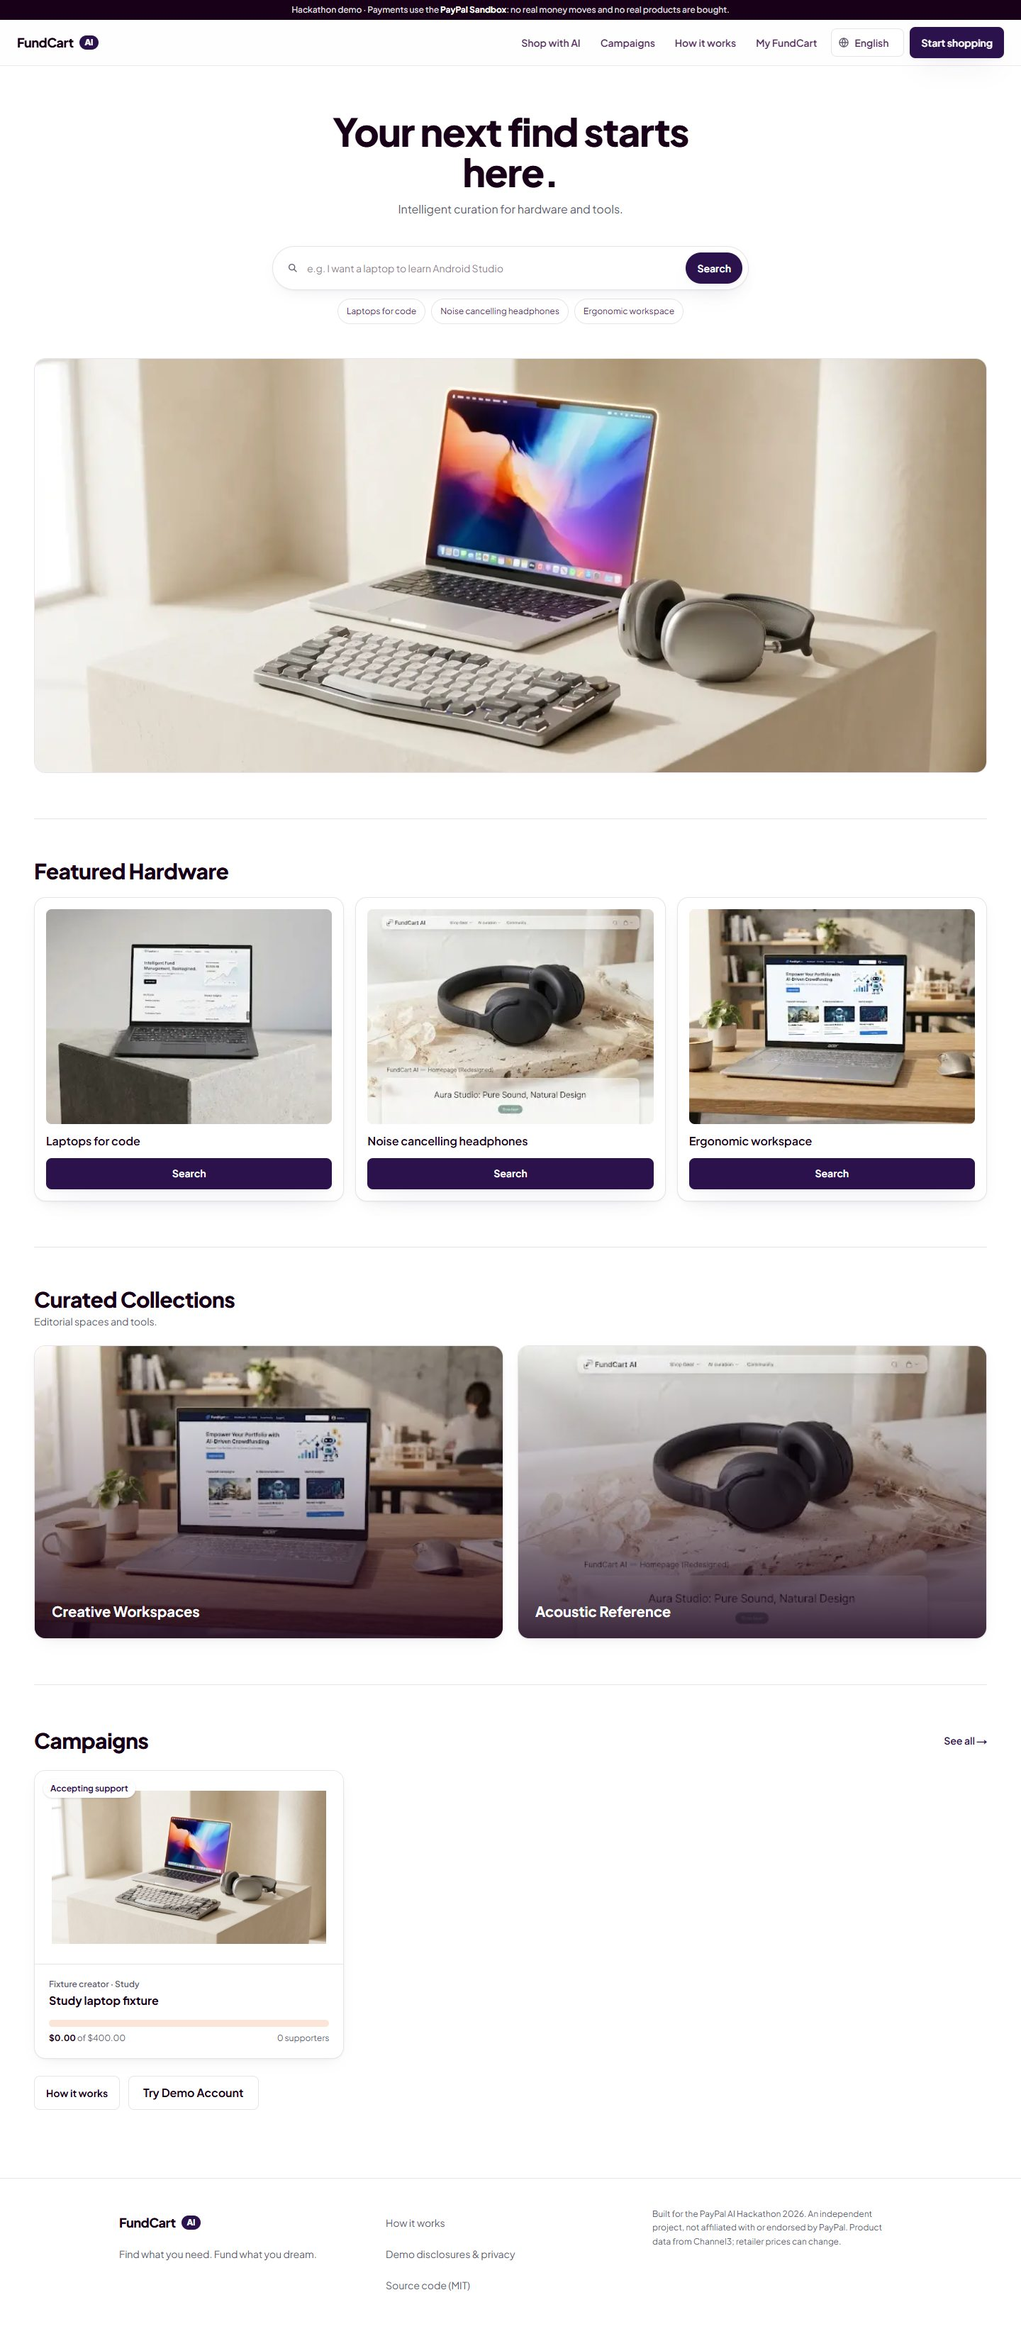
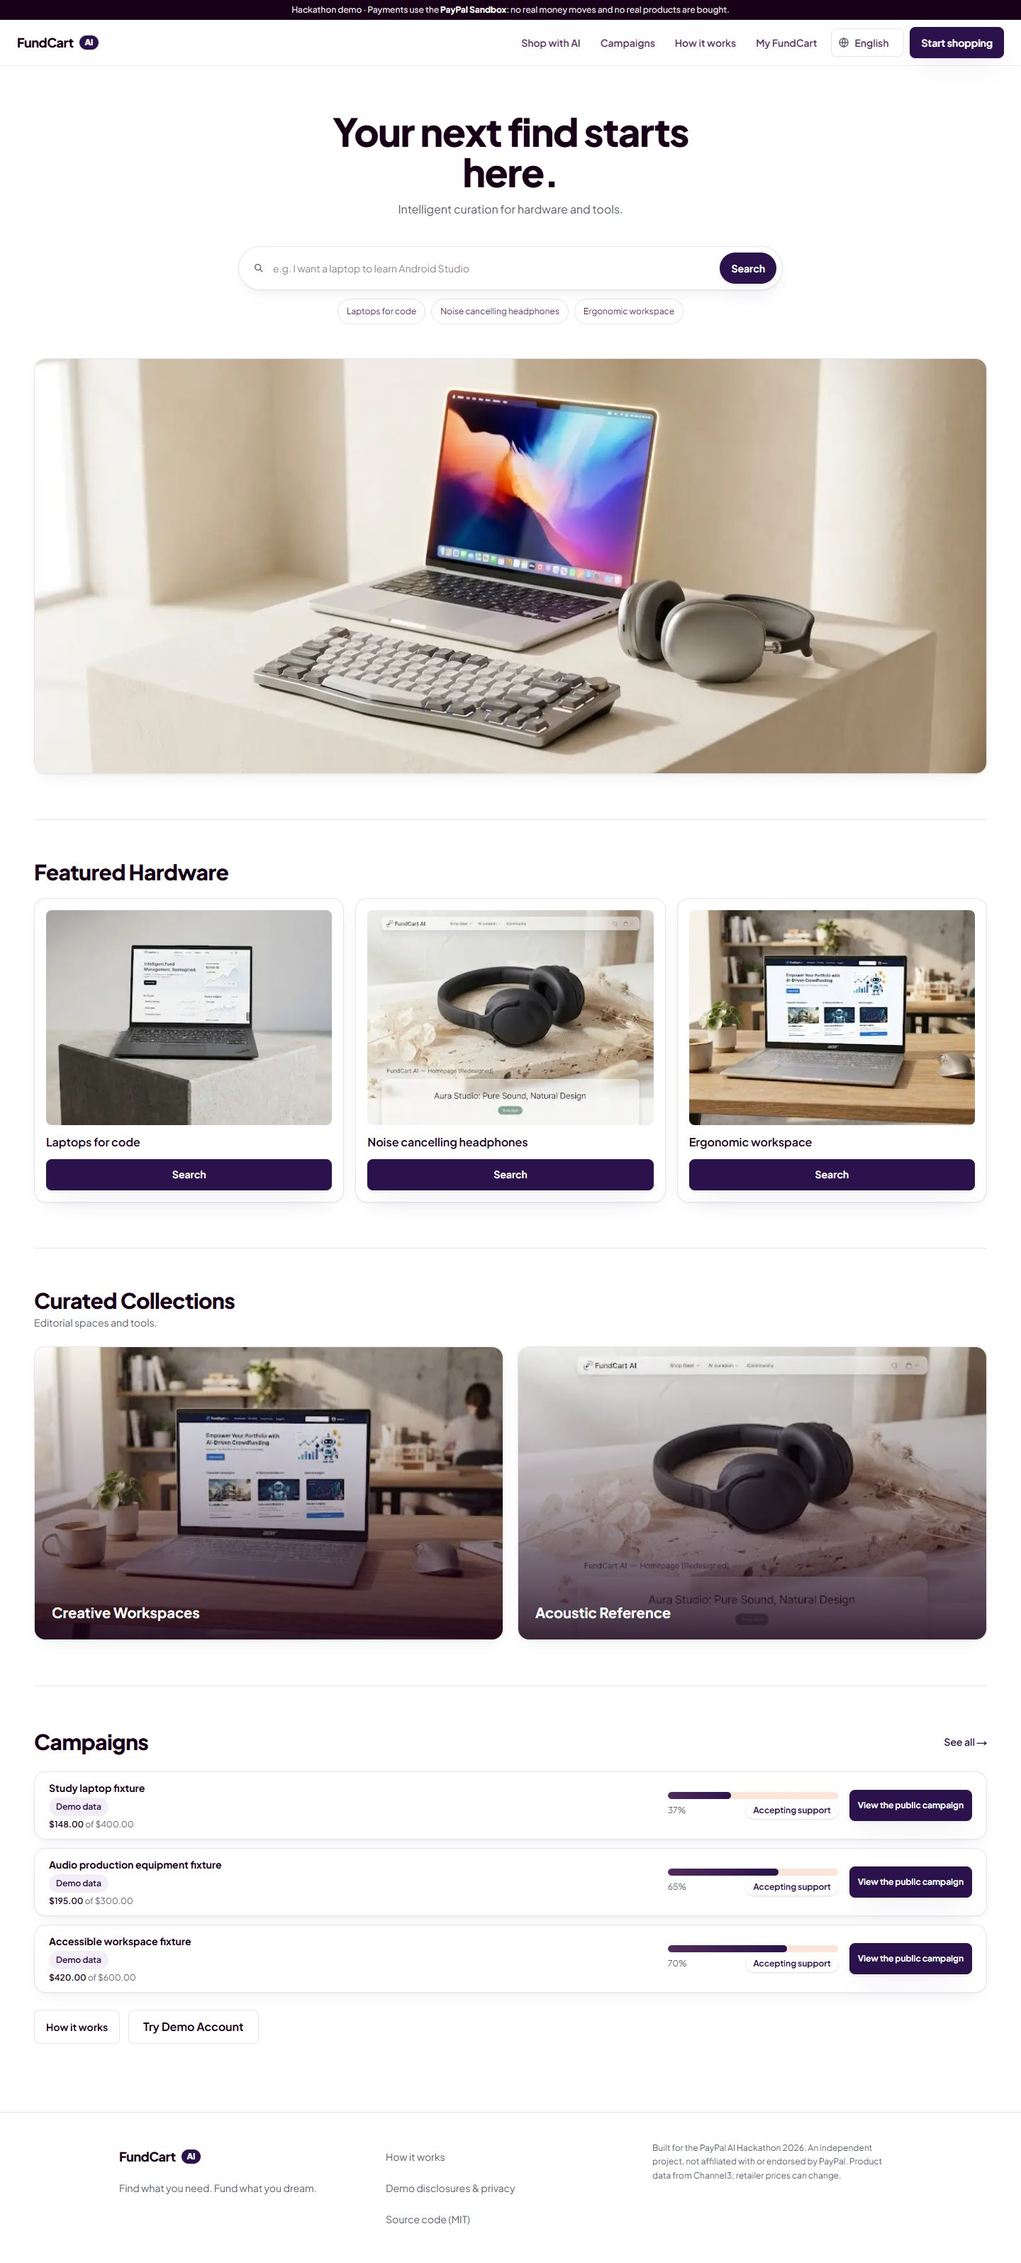
Match homepage composition and marketplace funding summary

diff --git a/src/app/page.tsx b/src/app/page.tsx
@@ -1,7 +1,9 @@
 import Image from 'next/image';
 import Link from 'next/link';
 import { listPublicCampaigns } from '@/lib/campaign-list';
-import { CampaignCard } from '@/components/CampaignCard';
+import { ProgressBar } from '@/components/ProgressBar';
+import { Rich } from '@/components/Rich';
+import { StatusChip } from '@/components/StatusChip';
 import { getT } from '@/i18n/server';
 import { DemoButton } from '@/components/DemoButton';
 
@@ -17,26 +19,31 @@ const searches = {
 };
 
 export default async function Home() {
-  const [campaigns, { t, locale }] = await Promise.all([listPublicCampaigns(3).catch(() => []), getT()]);
+  const [campaigns, { t, locale, usd }] = await Promise.all([listPublicCampaigns(3).catch(() => []), getT()]);
   return (
-    <div className="mx-auto max-w-[1440px] px-5 sm:px-8 lg:px-12">
-      <section className="pt-12 text-center sm:pt-16">
-        <h1 className="h-display mx-auto max-w-xl">{locale === 'en' ? 'Your next find starts here.' : t('home.h1a')}</h1>
-        <p className="mx-auto mt-3 max-w-lg text-sm text-mute sm:text-base">{locale === 'en' ? 'Intelligent curation for hardware and tools.' : t('home.lead')}</p>
-        <form action="/assistant" className="mx-auto mt-7 flex max-w-2xl items-center gap-2 rounded-full border border-line bg-white p-2 shadow-card sm:mt-10">
+    <div className="mx-auto max-w-[1440px] px-4 sm:px-8 lg:px-12">
+      <section className="pt-6 sm:pt-16 sm:text-center">
+        <h1 className="h-display max-w-[15ch] max-sm:text-[28px] sm:mx-auto sm:max-w-xl">{locale === 'en' ? 'Your next find starts here.' : t('home.h1a')}</h1>
+        <p className="mt-2 max-w-lg sm:mx-auto sm:mt-3 text-sm text-mute sm:text-base">{locale === 'en' ? 'Intelligent curation for hardware and tools.' : t('home.lead')}</p>
+        <form action="/assistant" className="mx-auto mt-5 flex max-w-3xl items-center gap-2 rounded-full border border-line bg-white p-2 shadow-card sm:mt-10">
           <label htmlFor="discover-query" className="sr-only">{t('assistant.requestLabel')}</label>
           <svg className="ms-3 size-4 shrink-0 text-mute" viewBox="0 0 24 24" fill="none" stroke="currentColor" strokeWidth="2" aria-hidden="true"><circle cx="10" cy="10" r="6" /><path d="m15 15 5 5" /></svg>
           <input id="discover-query" name="q" required maxLength={600} className="min-w-0 flex-1 rounded-lg px-1 py-2 text-sm focus-visible:outline-brand" placeholder={t('assistant.placeholder')} dir="auto" />
           <button type="submit" className="btn btn-primary rounded-full">{t('assistant.search')}</button>
         </form>
-        <div className="mt-3 flex flex-wrap justify-center gap-2">
+        <div className="mt-3 hidden flex-wrap justify-center gap-2 sm:flex">
           {searches[locale].map(query => <Link key={query} href={`/assistant?q=${encodeURIComponent(query)}`} className="inline-flex min-h-9 items-center rounded-full border border-line px-3 text-xs text-ink-2 hover:bg-brand-soft">{query}</Link>)}
         </div>
-        <div className="relative mt-8 aspect-[4/3] overflow-hidden rounded-2xl border border-line sm:mt-12 sm:aspect-[2.3/1]">
-          <Image src="/stitch/hardware-studio.webp" alt="" fill preload className="object-cover" sizes="(max-width: 767px) 100vw, 1344px" />
+        <div className="card mt-5 overflow-hidden sm:mt-12">
+          <div className="relative aspect-[16/10] sm:aspect-[2.3/1]">
+            <Image src="/stitch/hardware-studio.webp" alt="" fill preload className="object-cover" sizes="(max-width: 767px) 100vw, 1344px" />
+          </div>
+          <div className="p-3 sm:hidden">
+            <Link href="/assistant" className="btn btn-primary w-full">{t('nav.assistant')} <span aria-hidden="true">→</span></Link>
+          </div>
         </div>
       </section>
-      <section className="mt-12 border-t border-line pt-10 sm:mt-16 sm:pt-14">
+      <section className="mt-16 hidden border-t border-line pt-14 sm:block">
         <h2 className="h-section">{locale === 'en' ? 'Featured Hardware' : t('nav.assistant')}</h2>
         <div className="mt-5 grid gap-4 sm:grid-cols-3">
           {featured.map((asset, index) => {
@@ -51,25 +58,40 @@ export default async function Home() {
           })}
         </div>
       </section>
-      <section className="mt-12 border-t border-line pt-10 sm:mt-16 sm:pt-14">
+      <section className="mt-6 sm:mt-16 sm:border-t sm:border-line sm:pt-14">
         <h2 className="h-section">{locale === 'en' ? 'Curated Collections' : t('nav.assistant')}</h2>
         {locale === 'en' && <p className="mt-1 text-sm text-mute">Editorial spaces and tools.</p>}
-        <div className="mt-6 grid gap-5 md:grid-cols-2">
+        <div className="mt-3 grid grid-cols-2 gap-3 sm:mt-6 sm:gap-5">
           {([['featured-workspace', 2, 'Creative Workspaces'], ['featured-audio', 1, 'Acoustic Reference']] as const).map(([asset, index, title]) =>
-            <Link key={asset} href={`/assistant?q=${encodeURIComponent(searches[locale][index])}`} className="card group relative isolate flex aspect-[16/10] items-end overflow-hidden p-6 text-white">
-              <Image src={`/stitch/${asset}.webp`} alt="" fill sizes="(max-width: 767px) 90vw, 45vw" className="-z-10 object-cover transition-transform motion-safe:group-hover:scale-105" />
-              <span className="absolute inset-0 -z-10 bg-gradient-to-t from-ink/85 via-ink/30 to-transparent" />
-              <h3 className="text-xl font-bold">{locale === 'en' ? title : searches[locale][index]}</h3>
+            <Link key={asset} href={`/assistant?q=${encodeURIComponent(searches[locale][index])}`} className="card group overflow-hidden sm:relative sm:isolate sm:flex sm:aspect-[16/10] sm:items-end sm:p-6 sm:text-white">
+              <div className="relative aspect-[3/2] sm:absolute sm:inset-0 sm:-z-10 sm:aspect-auto">
+                <Image src={`/stitch/${asset}.webp`} alt="" fill sizes="45vw" className="object-cover transition-transform motion-safe:group-hover:scale-105" />
+              </div>
+              <span className="absolute inset-0 -z-10 hidden bg-gradient-to-t from-ink/85 via-ink/30 to-transparent sm:block" />
+              <h3 className="p-2.5 text-xs font-bold sm:p-0 sm:text-xl">{locale === 'en' ? title : searches[locale][index]}</h3>
             </Link>)}
         </div>
       </section>
-      <section className="mt-12 border-t border-line pt-10 sm:mt-16 sm:pt-14">
+      <section className="mt-6 sm:mt-16 sm:border-t sm:border-line sm:pt-14">
         <div className="flex flex-wrap items-center justify-between gap-3">
-          <h2 className="h-section">{t('nav.campaigns')}</h2>
+          <h2 className="h-section">{t('camps.title')}</h2>
           <Link href="/campaigns" className="tap text-sm font-semibold text-brand hover:underline">{t('home.seeAll')}</Link>
         </div>
         {campaigns.length ? (
-          <div className="mt-5 grid gap-4 sm:grid-cols-2 lg:grid-cols-3">{campaigns.map(campaign => <CampaignCard key={campaign.slug} c={campaign} />)}</div>
+          <ul className="mt-3 space-y-3 sm:mt-5">
+            {campaigns.map(campaign => <li key={campaign.slug} className="card grid grid-cols-[minmax(0,1fr)_auto] items-center gap-x-4 gap-y-2 p-3 sm:grid-cols-[minmax(0,1fr)_minmax(150px,240px)_auto] sm:px-5">
+              <div className="min-w-0">
+                <h3 className="wrap-anywhere text-sm font-bold" dir="auto">{campaign.title}</h3>
+                {campaign.isDemoSeed && <span className="chip mt-1 bg-brand-soft text-brand">{t('card.demo')}</span>}
+                <p className="mt-1 text-xs text-mute"><Rich text={t('card.of', { raised: `<b>${usd(campaign.raisedCents)}</b>`, goal: usd(campaign.targetCents) })} boldClass="font-semibold text-ink" /></p>
+              </div>
+              <div className="col-span-2 row-start-2 min-w-0 sm:col-span-1 sm:row-start-auto">
+                <ProgressBar percent={campaign.percent} />
+                <div className="mt-1 hidden items-center justify-between gap-2 text-xs text-mute sm:flex"><bdi>{campaign.percent}%</bdi><StatusChip status={campaign.status} /></div>
+              </div>
+              <Link href={`/c/${campaign.slug}`} aria-label={`${t('mg.viewPublic')} — ${campaign.title}`} className="btn btn-primary min-h-11 self-center px-3 text-xs">{t('mg.viewPublic')}</Link>
+            </li>)}
+          </ul>
         ) : <div className="card mt-5 p-6 text-sm text-mute">{t('home.noCampaigns')}</div>}
         <div className="mt-6 flex flex-wrap gap-3">
           <Link href="/how-it-works" className="btn btn-ghost">{t('nav.how')}</Link>

diff --git a/src/app/campaigns/page.tsx b/src/app/campaigns/page.tsx
@@ -2,6 +2,7 @@ import Link from 'next/link';
 import type { Metadata } from 'next';
 import { listPublicCampaigns } from '@/lib/campaign-list';
 import { CampaignCard } from '@/components/CampaignCard';
+import { ProgressBar } from '@/components/ProgressBar';
 import { getT } from '@/i18n/server';
 
 export const dynamic = 'force-dynamic';
@@ -12,18 +13,28 @@ export async function generateMetadata(): Promise<Metadata> {
 }
 
 export default async function Campaigns({ searchParams }: { searchParams: Promise<{ q?: string; category?: string }> }) {
-  const [campaigns, { t, locale }, { q, category }] = await Promise.all([listPublicCampaigns(48).catch(() => []), getT(), searchParams]);
+  const [campaigns, { t, locale, usd }, { q, category }] = await Promise.all([listPublicCampaigns(48).catch(() => []), getT(), searchParams]);
   const query = typeof q === 'string' ? q.trim().slice(0, 100) : '';
   const categories = [...new Set(campaigns.flatMap(c => c.category ? [c.category] : []))].slice(0, 8);
   const selected = typeof category === 'string' && categories.includes(category) ? category : '';
   const list = campaigns.filter(c => (!selected || c.category === selected)
     && (!query || `${c.title} ${c.category ?? ''}`.toLocaleLowerCase().includes(query.toLocaleLowerCase())));
+  const totals = list.reduce((sum, item) => ({ raised: sum.raised + item.raisedCents, target: sum.target + item.targetCents }), { raised: 0, target: 0 });
+  const percent = totals.target > 0 ? Math.round(100 * totals.raised / totals.target) : 0;
+  const label = { en: 'Campaigns shown', ur: 'دکھائی گئی مہمات', es: 'Campañas mostradas', fr: 'Campagnes affichées' }[locale];
   const [all, search] = { en: ['All', 'Search needs'], ur: ['سب', 'ضروریات تلاش کریں'], es: ['Todas', 'Buscar necesidades'], fr: ['Toutes', 'Rechercher des besoins'] }[locale];
   return (
-    <div className="mx-auto max-w-6xl px-4 py-6 sm:px-6 sm:py-10">
-      <div className="flex flex-wrap items-end justify-between gap-4">
-        <div><p className="eyebrow">{t('camps.eyebrow')}</p><h1 className="h-page mt-2">{t('camps.title')}</h1><p className="mt-2 text-sm text-ink-2 sm:text-base">{t('camps.lead')}</p></div>
-        <Link href="/assistant" className="btn btn-primary w-full sm:w-auto">{t('camps.start')}</Link>
+    <div className="mx-auto max-w-7xl px-4 py-6 sm:px-6 sm:py-10">
+      <div className="flex flex-wrap items-start justify-between gap-4">
+        <div><p className="eyebrow">{t('camps.eyebrow')}</p><h1 className="h-page mt-2">{locale === 'en' ? 'Community Needs Marketplace' : t('camps.title')}</h1><p className="mt-2 text-sm text-ink-2 sm:text-base">{t('camps.lead')}</p></div>
+        {!!list.length && <aside aria-label={label} className="card flex w-full items-center gap-5 p-4 sm:w-auto sm:min-w-56">
+          <div className="min-w-0 flex-1">
+            <p className="eyebrow">{label}</p>
+            <p className="mt-1 text-lg font-extrabold text-brand"><bdi>{usd(totals.raised)}</bdi></p>
+            <p className="text-xs text-mute"><bdi>{list.length}</bdi> · <bdi>{percent}%</bdi></p>
+          </div>
+          <div className="w-16 shrink-0"><ProgressBar percent={percent} /></div>
+        </aside>}
       </div>
       <form className="mt-5 flex gap-2" action="/campaigns">
         <label className="sr-only" htmlFor="needs-search">{search}</label>
@@ -40,6 +51,7 @@ export default async function Campaigns({ searchParams }: { searchParams: Promis
             className={`btn min-h-9 rounded-full ${selected === value ? 'btn-primary' : 'btn-ghost'}`}>{value || all}</Link>;
         })}
       </nav>}
+      <Link href="/assistant" className="tap mt-2 text-sm font-semibold text-brand hover:underline">{t('camps.start')}</Link>
       {list.length ? <div className="mt-6 grid grid-cols-2 gap-2 sm:mt-8 sm:gap-5 lg:grid-cols-3">{list.map(c => <CampaignCard key={c.slug} c={c} editorial />)}</div>
         : <div className="card mt-8 p-10 text-center text-mute">{t('camps.none')}</div>}
     </div>

diff --git a/tests/e2e/phase-two.spec.ts b/tests/e2e/phase-two.spec.ts
@@ -7,7 +7,14 @@ test('Phase 2 public layouts fit the requested widths', async ({ page }, testInf
     for (const path of ['/', '/assistant', '/campaigns']) {
       expect((await page.goto(path))?.status()).toBe(200);
       expect(await page.evaluate(() => document.documentElement.scrollWidth - innerWidth), `${path} at ${width}px`).toBeLessThanOrEqual(1);
-      if (path === '/') await page.screenshot({ path: testInfo.outputPath(`homepage-${width}.png`), fullPage: true, animations: 'disabled' });
+      if (path === '/') {
+        if (process.env.E2E_PHASE2_FIXTURE === '1') {
+          const campaign = page.getByRole('listitem').filter({ hasText: 'Study laptop fixture' });
+          await expect(campaign.getByRole('progressbar')).toHaveAttribute('aria-valuenow', '37');
+          await expect(campaign.getByRole('link')).toHaveAttribute('href', /^\/c\//);
+        }
+        await page.screenshot({ path: testInfo.outputPath(`homepage-${width}.png`), fullPage: true, animations: 'disabled' });
+      }
     }
   }
 });
@@ -166,6 +173,7 @@ test('Phase 2 marketplace fixture filters real rendered campaign cards', async (
   await page.setViewportSize({ width: 390, height: 960 });
   await page.goto('/campaigns');
   await expect(page.getByRole('heading', { name: 'Study laptop fixture' })).toBeVisible();
+  await expect(page.getByRole('complementary', { name: 'Campaigns shown' })).toContainText('$763.00');
   for (const width of [390, 768, 1024, 1440]) {
     await page.setViewportSize({ width, height: 960 });
     expect(await page.evaluate(() => document.documentElement.scrollWidth - innerWidth)).toBeLessThanOrEqual(1);

diff --git a/docs/PHASE_2_STITCH.md b/docs/PHASE_2_STITCH.md
@@ -2,13 +2,13 @@
 
 ## Current status
 
-Phase 2 remains incomplete. This run used the newest supplied FundCart archive, `stitch_fundcart_ai_redesign (1).zip` (44 HTML and 26 PNG files). Group 1 has fixture captures at all four required widths and mobile comparisons. Group 1 still requires visual corrections. Homepage and workspace include desktop comparisons. The marketplace desktop reference is HTML-only. Groups 2 and 3 retain prior implementation and evidence.
+Phase 2 remains incomplete. This run used the newest supplied FundCart archive, `stitch_fundcart_ai_redesign (1).zip` (44 HTML and 26 PNG files). Group 1 has fixture captures at all four required widths and mobile comparisons. Group 1 still requires visual corrections. Homepage, workspace, and marketplace include desktop comparisons. The marketplace comparison renders the supplied HTML at 1440 CSS pixels. Groups 2 and 3 retain prior implementation and evidence.
 
 | Screen | Desktop fidelity | Mobile fidelity | Functionality | Evidence | Blocker or gap |
 | --- | --- | --- | --- | --- | --- |
-| Homepage | Partially implemented | Partially implemented | Public search, collections and campaign entry. | [390](evidence/phase-two/group-one/homepage-390.jpg) · [768](evidence/phase-two/group-one/homepage-768.jpg) · [1024](evidence/phase-two/group-one/homepage-1024.jpg) · [1440](evidence/phase-two/group-one/homepage-1440.jpg) · [Stitch mobile comparison](evidence/phase-two/group-one/homepage-mobile-review.jpg) · [Stitch desktop comparison](evidence/phase-two/group-one/homepage-desktop-review.jpg) | Header and collection imagery differ. |
+| Homepage | Partially implemented | Partially implemented | Public search, collections and campaign entry. | [390](evidence/phase-two/group-one/homepage-390.jpg) · [768](evidence/phase-two/group-one/homepage-768.jpg) · [1024](evidence/phase-two/group-one/homepage-1024.jpg) · [1440](evidence/phase-two/group-one/homepage-1440.jpg) · [Stitch mobile comparison](evidence/phase-two/group-one/homepage-mobile-review.jpg) · [Stitch desktop comparison](evidence/phase-two/group-one/homepage-desktop-review.jpg) | Mobile follows the compact hero, two-tile collection grid and community list. Header, footer, collection photography and mock quote still differ. |
 | Shopping workspace | Partially implemented | Partially implemented | Fixture covers brief edit and refreshed results. | [390](evidence/phase-two/group-one/workspace-390.jpg) · [768](evidence/phase-two/group-one/workspace-768.jpg) · [1024](evidence/phase-two/group-one/workspace-1024.jpg) · [1440](evidence/phase-two/group-one/workspace-1440.jpg) · [Stitch mobile comparison](evidence/phase-two/group-one/workspace-mobile-review.jpg) · [Stitch desktop comparison](evidence/phase-two/group-one/workspace-desktop-review.jpg) | Side rails and results composition differ. |
-| Community marketplace | Partially implemented | Partially implemented | Fixture covers populated cards and search filtering. | [390](evidence/phase-two/group-one/marketplace-390.jpg) · [768](evidence/phase-two/group-one/marketplace-768.jpg) · [1024](evidence/phase-two/group-one/marketplace-1024.jpg) · [1440](evidence/phase-two/group-one/marketplace-1440.jpg) · [Stitch mobile comparison](evidence/phase-two/group-one/marketplace-mobile-review.jpg) | Desktop cards use inset 16:10 images. The mobile cohort strip has no corresponding data. |
+| Community marketplace | Partially implemented | Partially implemented | Fixture covers populated cards and search filtering. | [390](evidence/phase-two/group-one/marketplace-390.jpg) · [768](evidence/phase-two/group-one/marketplace-768.jpg) · [1024](evidence/phase-two/group-one/marketplace-1024.jpg) · [1440](evidence/phase-two/group-one/marketplace-1440.jpg) · [Stitch mobile comparison](evidence/phase-two/group-one/marketplace-mobile-review.jpg) · [Stitch desktop comparison](evidence/phase-two/group-one/marketplace-desktop-review.jpg) | Desktop cards use inset 16:10 images. The summary uses recorded totals for the campaigns shown. Status chips, cohort presentation and header differ. |
 | Product Comparison Studio | Partially implemented | Partially implemented | Four real fixture selections with horizontal candidate cards on mobile. | [390](evidence/phase-two/group-one/comparison-390.jpg) · [768](evidence/phase-two/group-one/comparison-768.jpg) · [1024](evidence/phase-two/group-one/comparison-1024.jpg) · [1440](evidence/phase-two/group-one/comparison-1440.jpg) · [Stitch mobile comparison](evidence/phase-two/group-one/comparison-mobile-review.jpg) | Mobile matrix keeps all selected candidates visible together. Desktop is derived. |
 | Product Details & Affordability | Partially implemented | Partially implemented | Fixture covers known funds, unquoted costs and buy/fund navigation. | [390](evidence/phase-two/group-one/product-390.jpg) · [768](evidence/phase-two/group-one/product-768.jpg) · [1024](evidence/phase-two/group-one/product-1024.jpg) · [1440](evidence/phase-two/group-one/product-1440.jpg) · [Stitch mobile comparison](evidence/phase-two/group-one/product-mobile-review.jpg) | Mobile has the three-metric card and fixed actions. Catalog supports a single image and this fixture has none. The title and long feature pills take more space than in Stitch. Desktop is derived. |
 | Campaign Detail | Partially implemented | Partially implemented | Existing public route and campaign funding data. | See historical evidence below | Populated comparison and four-width capture pending. |
